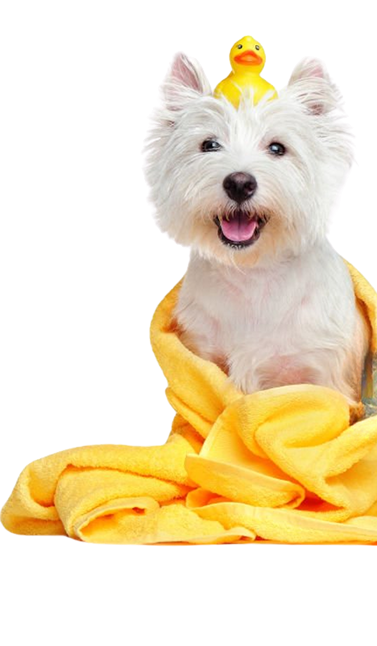
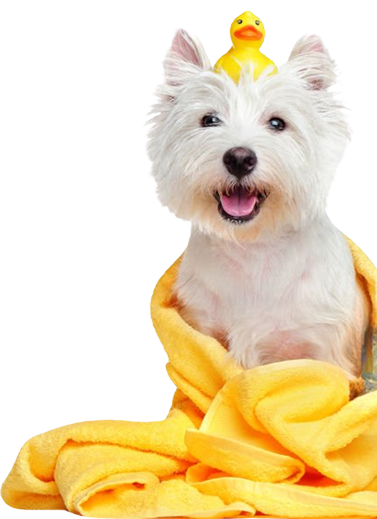
ui

diff --git a/Components/Accessoires/Types.js b/Components/Accessoires/Types.js
@@ -48,7 +48,7 @@ const Types = () => {
         <h2 className="text-2xl font-bold text-center mb-6">Browse By Types</h2>
         <div className="w-full h-40 mt-10 flex items-center justify-center">
           <Swiper
-            slidesPerView={2}
+            slidesPerView={3}
             spaceBetween={20}
             navigation={isLargeScreen}
             pagination={{ clickable: true }}
@@ -70,22 +70,33 @@ const Types = () => {
         </div>
       </section>
 
-      {/* Pet Type Section */}
-      <div className="flex flex-col gap-8">
-        <h2 className="text-2xl font-bold text-center mb-6">Pet Type</h2>
-        <div className="flex items-center justify-around px-4 flex-wrap gap-6">
-          {petTypes.map((pet, index) => (
-            <Link key={index} href={pet.link}>
-              <div className="flex flex-col items-center gap-4 cursor-pointer">
-                <div className="h-36 w-36 md:h-48 md:w-48 rounded-full overflow-hidden border-2 hover:shadow-lg transition-all duration-300">
-                  <img src={pet.img} alt={pet.name} width={192} height={192} className="object-cover" />
-                </div>
-                <h1 className="font-semibold text-xl">{pet.name}</h1>
+   {/* Pet Type Section */}
+<div className="flex flex-col gap-8">
+  <h2 className="text-2xl font-bold text-center mb-6">Pet Type</h2>
+  <div className="flex items-center justify-around px-4 flex-wrap gap-6 
+      max-md:flex-nowrap max-md:overflow-x-auto max-md:gap-4 max-md:justify-start">
+      
+      <div className="flex items-center justify-between max-md:flex  max-md:items-center   max-md:justify-around  max-md:w-screen w-[80%] max-md:px-[2vw]  ">
+        {petTypes?.map((i, index) => (
+           
+          <Link key={index} href={`/papapet/product/type/${i.name}`}>
+            <div className="flex flex-col items-center gap-6 cursor-pointer">
+              {/* Image Container */}
+              <div className="h-[13vw] w-[13vw] max-md:h-[25vw] max-md:w-[25vw] rounded-full overflow-hidden border-2  max-md:border-none flex items-center justify-center hover:shadow-lg transition-all duration-300">
+                <img className="h-full w-full object-cover" src={i?.img} alt={i?.name} />
               </div>
-            </Link>
-          ))}
-        </div>
-      </div>
+
+              {/* Category Name */}
+              <h1 className="font-semibold text-2xl max-md:text-lg">{i?.name}</h1>
+            </div>
+          </Link>
+        ))}
+  
+  </div>
+  </div>
+
+</div>
+
 
       {/* Products Grid */}
       <div className="w-full grid grid-cols-2 md:grid-cols-4 gap-6 mt-6  max-w-6xl mx-auto px-[3vw] ">

diff --git a/Components/Boarding/Herosection.js b/Components/Boarding/Herosection.js
@@ -4,11 +4,11 @@ import React from 'react'
 const HeroSection = () => {
     return (
       <div className="   relative w-full flex items-center justify-between h-screen px-10  overflow-hidden 
-      max-md:flex-col max-md:px-5  max-md:h-screen  ">
+      max-md:flex-col max-md:px-5  max-md:h-fit  ">
       
       {/* Left Content */}
-      <div className="flex flex-col items-start justify-start gap-3  mt-[15vw] w-[70%] h-full text-black   
-        max-md:w-full max-md:text-start max-md:pb-[2vw] max-md:pl-[2vw] max-md:pt-[10vw]    ">
+      <div className="flex flex-col items-start justify-start gap-1  mt-[15vw] w-[70%] h-full text-black  px-[2vw]  
+        max-md:w-full max-md:text-start  max-md:pl-[2vw] max-md:pt-[8vw]    ">
 
   {/* Title */}
   <h1 className="text-5xl font-bold leading-tight gilroy mt-3 max-md:text-3xl "> 
@@ -16,8 +16,8 @@ const HeroSection = () => {
       </h1>
     
       {/* Description */}
-      <p className="text-lg w-[80%] pt-5 max-md:w-full max-md:text-base">
-      Comfortable overnight stays with attentive caregivers, <br /> ensuring a stress-free experience for your pet.
+      <p className="text-lg w-[80%] pt-4 max-md:w-full max-md:text-base">
+      Comfortable overnight stays with attentive  <br />  caregivers,ensuring a stress-free experience <br /> for your pet.
       </p>
     
       {/* Button */}
@@ -32,7 +32,7 @@ const HeroSection = () => {
           {/* Right Content (Dog Image) */}
     <div className="absolute -right-[70px] -bottom-[155px] bg-[#0D9899] w-[35vw] h-[35vw] rounded-full " ></div>
     
-          <div className="   w-[40%]  flex justify-start items-start max-md:w-full max-md:justify-center mt-[5vw] max-md:mt-4 max-md:mr-8">
+          <div className="     w-[40%]  flex justify-center items-start max-md:w-full max-md:justify-center mt-[5vw] ">
     
             <img src="/boardingmainimage.png" className=" relative ml-[4vw]  z-10 w-[40vw] object-cover max-md:w-[80vw]" alt="Dog" />
     

diff --git a/Components/Grooming/HeroSection.js b/Components/Grooming/HeroSection.js
@@ -3,12 +3,12 @@ import React from 'react'
 
 const HeroSection = () => {
     return (
-        <div className="   relative w-full flex items-center justify-between h-screen px-10  overflow-hidden 
-          max-md:flex-col max-md:px-5  max-md:h-screen  ">
+        <div className="   relative w-full flex items-center justify-center  h-screen px-10  overflow-hidden 
+          max-md:flex-col max-md:px-5  max-md:h-fit  ">
           
           {/* Left Content */}
-          <div className="flex flex-col items-start justify-start gap-3  mt-[15vw] w-[70%] h-full text-black   
-            max-md:w-full max-md:text-start max-md:pb-[2vw] max-md:pl-[2vw] max-md:pt-[10vw]    ">
+          <div className="  flex flex-col items-start justify-start gap-3  mt-[15vw] w-[70%] h-full text-black   
+            max-md:w-full max-md:text-start  max-md:pl-[2vw] max-md:pt-[5vw]   max-md:gap-1  ">
     
       {/* Title */}
       <h1 className="text-5xl font-bold leading-tight gilroy mt-3 max-md:text-3xl ">
@@ -33,11 +33,14 @@ Top-Rated  <span className="text-[#0D9899]">Grooming</span> Services!
           {/* Right Content (Dog Image) */}
     <div className="absolute -right-[70px] -bottom-[155px] bg-[#FDB625] w-[35vw] h-[35vw] rounded-full " ></div>
     
-          <div className="   w-[30%]  flex justify-start items-start max-md:w-full max-md:justify-start max-md:items-start mt-[10vw] max-md:mt-1 max-md:mr-8">
-    
-            <img src="/groomingmainimage.png" className=" relative  ml-[4vw] z-10 w-[25vw] object-cover max-md:w-[80vw] max-md:ml-[10vw]" alt="Dog" />
-    
-          </div>
+    <div className="   max-md:w-screen  max-md:flex max-md:justify-start max-md:items-start ">
+    <img 
+        src="/groomingmainimage.png" 
+        className="relative z-10 w-[25vw] object-cover max-md:ml-[16vw]
+        max-md:w-[80vw] " 
+        alt="Dog" 
+    />
+</div>
         </div>
       );
 }

diff --git a/app/papapet/food/page.js b/app/papapet/food/page.js
@@ -10,11 +10,11 @@ const Page = () => {
       <NavPapaPet />
       <div className=" relative  ">
         <div className="  flex items-center justify-between h-screen px-10 py-[12vw] pl-[4vw]  
-        max-md:flex-col max-md:px-5 max-md:gap-[4vw] max-md:h-auto max-md:py-20">
+        max-md:flex-col max-md:px-5 max-md:gap-[4vw] max-md:h-fit max-md:pt-[8vw]">
           
           {/* Left Content */}
           <div className="flex flex-col gap-6 w-1/2 text-black  
-           max-md:w-full max-md:text-start max-md:pb-[10vw] max-md:pl-[3vw] max-md:pt-[22vw]">
+           max-md:w-full max-md:text-start max-md:pb-[10vw] max-md:pl-[3vw] max-md:pt-[20vw]">
             <h1 className="text-5xl font-bold leading-tight gilroy max-md:text-3xl max-md:pl-0">
               We Offer the <span className="text-[#0D9899]">Best</span> <br />
               Products for your <span className="text-[#FFAD22]">Pets</span>
@@ -39,10 +39,10 @@ const Page = () => {
 
 
           
-          <div className="w-1/2 flex justify-end max-md:w-full max-md:justify-center max-md:mt-4 max-md:mr-8">
+          <div className="w-1/2 flex justify-end max-md:w-full max-md:justify-center max-md:mr-8">
             <img
               src="/foodBg.png"
-              className="w-[40vw] object-cover max-md:w-[80vw]"
+              className="w-[40vw] object-cover max-md:w-[90vw]"
               alt="Dog"
             />
           </div>

diff --git a/Components/Petwalking/HeroSection.js b/Components/Petwalking/HeroSection.js
@@ -12,7 +12,7 @@ const HeroSection = () => {
             max-md:w-full max-md:text-start max-md:pb-[2vw] max-md:pl-[2vw] max-md:pt-[10vw]    ">
     
   {/* Title */}
-  <h1 className="text-5xl font-bold leading-tight gilroy mt-3 max-md:text-3xl">
+  <h1 className="text-5xl font-bold leading-tight gilroy mt-2 max-md:text-3xl">
     Find Trusted <span className="text-[#0D9899]"> Pet Walkers </span> Near You for Happy Strolls!
   </h1>
 
@@ -31,13 +31,13 @@ const HeroSection = () => {
 </div>
 
       {/* Right Content (Dog Image) */}
-<div className="absolute -right-[70px] -bottom-[155px] bg-[#0D9899] w-[35vw] h-[35vw] rounded-full " ></div>
+<div className=" absolute -right-[70px] -bottom-[155px] bg-[#0D9899] w-[35vw] h-[35vw] rounded-full " ></div>
 
-      <div className="  w-[30%]  flex justify-start items-start max-md:w-full max-md:flex max-m  max-md:justify-start max-md:items-start  max-md:mr-8">
+      <div className="  w-[30%]  flex justify-start items-start max-md:w-screen  max-md:flex   max-md:justify-start max-md:items-start  max-md:mr-8">
 
       <img 
     src="/petwalkingheropage.png" 
-    className="relative z-10 w-[25vw] object-cover max-md:w-[80vw] max-md:mt-4 max-md:mx-auto" 
+    className="relative z-10 w-[25vw] object-cover max-md:w-[80vw] max-md:mt-2 max-md:mx-auto" 
     alt="Dog" 
   />
       </div>

diff --git a/Components/DayCare/HeroSection.js b/Components/DayCare/HeroSection.js
@@ -4,11 +4,11 @@ import React from 'react'
 const HeroSection = () => {
     return (
       <div className="   relative w-full flex items-center justify-between h-screen px-10  overflow-hidden 
-      max-md:flex-col max-md:px-5  max-md:h-screen  ">
+      max-md:flex-col max-md:px-5  max-md:h-fit  ">
       
       {/* Left Content */}
-      <div className="flex flex-col items-start justify-start gap-3  mt-[15vw] w-[70%] h-full text-black   
-        max-md:w-full max-md:text-start max-md:pb-[2vw] max-md:pl-[2vw] max-md:pt-[10vw]    ">
+      <div className=" px-[2vw] flex flex-col items-start justify-start gap-1  mt-[15vw] w-[70%] h-full text-black   
+        max-md:w-full max-md:text-start max-md:pb-[2vw] max-md:pl-[2vw] max-md:pt-[9vw]    ">
 
       {/* Title */}
       <h1 className="text-5xl font-bold leading-tight gilroy mt-3 max-md:text-3xl ">
@@ -16,7 +16,7 @@ const HeroSection = () => {
       </h1>
     
       {/* Description */}
-      <p className="text-lg w-[80%] pt-5 max-md:w-full max-md:text-base">
+      <p className="text-lg w-[80%] pt-4 max-md:w-full max-md:text-base">
         Discover the Best Daycare for Your Pet’s Care & Play! <br />
 A safe and engaging space where pets receive attention, playtime, and the care they deserve.
       </p>

diff --git a/app/papapet/accessories/page.js b/app/papapet/accessories/page.js
@@ -18,11 +18,11 @@ const page = () => {
     <NavPapaPet />
     <div className=" relative">
       <div className=" w-[100%] gap-[20vw] flex items-center justify-between h-screen px-10 py-[20vw]  
-      max-md:flex-col max-md:px-5 max-md:gap-[4vw] max-md:h-auto max-md:py-20">
+      max-md:flex-col max-md:px-5 max-md:gap-[4vw] max-md:h-fit max-md:pt-[8vw]">
         
         {/* Left Content */}
         <div className="flex flex-col gap-6 w-[60%] text-black  
-         max-md:w-full max-md:text-start max-md:pb-[10vw] max-md:pl-[3vw] max-md:pt-[22vw]">
+         max-md:w-full max-md:text-start max-md:pb-[10vw] max-md:pl-[3vw] max-md:pt-[20vw]">
           <h1 className="text-5xl font-bold leading-tight gilroy max-md:text-3xl max-md:pl-0">
             Let Your  <span className="text-[#0D9899]">Pets</span> <br />
           Enjoy Some Play Time<span className="text-[#FFAD22]">Pets</span>

diff --git a/Components/HomePage/HomePage.js b/Components/HomePage/HomePage.js
@@ -17,7 +17,7 @@ const HomePage = () => {
         Premium dog food, veterinary care, pet grooming, accessories, pet walking & daycare. Expert-approved pet essentials for a happy, healthy pet!
         </p>
         <div className="flex items-center gap-4  max-md:mt-[0.4vw] pt-[2vw]">
-          <button className="lin rounded-full font-semibold text-lg  max-md:text-[3vw] ">
+        <button className="linear rounded-full font-semibold text-lg px-6 py-2 max-md:text-sm max-md:px-[4vw] max-md:py-[2vw]">
             Our services{" "}
             <i className="ri-arrow-right-s-line bg-white rounded-full"></i>
           </button>
